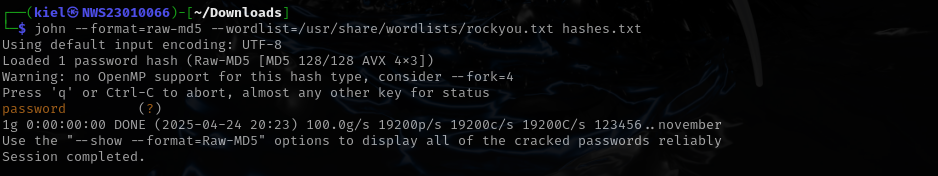
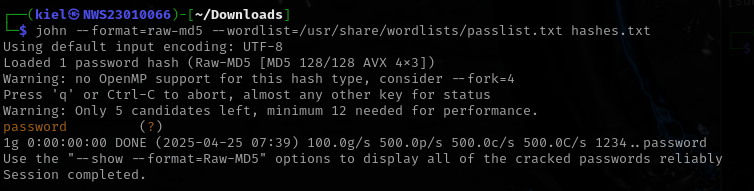
go

Changed region(s): [[0.0, 0.0284, 0.9761, 0.9375]]

diff --git a/Cryptography-Class/Assessments/2-Lab-Works-20%/Lab-Work-2/Walktrough.md b/Cryptography-Class/Assessments/2-Lab-Works-20%/Lab-Work-2/Walktrough.md
@@ -137,12 +137,6 @@ hashid hashes.txt
 ```
 ![alt text](Screenshots/hashes5.png)
 
-or  
-```bash
-hash-identifier
-```
-![alt text](Screenshots/hashes6.png)
-
 - Key Findings:
     - 32-character hexadecimal string (digits 0-9 and lowercase letters a-f).
     - No special characters (no *, $, colons, etc.)—just the raw hash value.
@@ -165,18 +159,25 @@ Crack the extracted hashes using offline tools like John or Hashcat.
 
 ---
 
-## 🛠 Tools & Commands  
+## 🛠 Tools & Commands 
+- For this hash cracking, you can use the possible password list in directory `/usr/share/wordlists/`. 
 
 ### 🔹 Using `john`:  
 ```bash
-john --wordlist=/usr/share/wordlists/rockyou.txt hashes.txt
+john --wordlist=/usr/share/wordlists/passlist.txt hashes.txt
 ```
 
 ![alt text](Screenshots/john1.png)
 
 ---
 
-### ⚠ Problem Encountered ⚠
+### ⚠ Problem Identified ⚠
+
+| Problem                     | Cause                                                                 | Solution                                                                 |
+|-----------------------------|-----------------------------------------------------------------------|--------------------------------------------------------------------------|
+| **Incorrect Hash Detection** | John defaults to LM hashing despite MD5 hints (`dynamic=md5($p)`).    | Force MD5 format: `john --format=raw-md5 --wordlist=rockyou.txt hashes.txt` |
+| **Failed Cracking Attempt**  | Wordlist (`rockyou.txt`) may not contain the password.                | Use larger wordlists (e.g., `SecLists`) or brute-force: `john --incremental --format=raw-md5 hashes.txt` |
+| **Inefficient Cracking**     | LM hashing is slow/irrelevant for MD5.                               | Switch to `hashcat` for speed: `hashcat -m 0 hashes.txt rockyou.txt`     |
 
 - When running the code above, you will encounter the error
     - `Warning: detected hash type "LM", but the string is also recognized as "dynamic=md5($p)"`
@@ -187,15 +188,21 @@ This is caused by the hash being **MD5**, and we didn't specify the format we wa
 
 ### ✅ Solution ✅ 🛠
 
-This can be solved/fixed by adding the correct/wanted format to the command
+This can be fixed by adding the correct format to the command.
 
 - For MD5:
-
-```sh
-john --format=raw-md5 --wordlist=<wordlist> hash.txt
+```bash
+john --format=raw-md5 --wordlist=/usr/share/wordlists/passlist.txt hashes.txt
 ```
 
-![alt text](Screenshots/john2.png)
+![alt text](Screenshots/john2.png)  
+
+- Command view cracked password:
+```bash
+john --show --format=raw-md5 hashes.txt 
+```
+
+![alt text](Screenshots/john3.png) 
 
 By using this command, we can see that the cracking was successful, thus showing us the treasure behind the hash
 
@@ -203,20 +210,11 @@ By using this command, we can see that the cracking was successful, thus showing
 
 ---
 
-### 🔹 Using `hashcat`:  
-```bash
-hashcat -m 0 -a 0 hashes.txt /usr/share/wordlists/rockyou.txt
-```
-
-![image](https://github.com/user-attachments/assets/example-crack.png)
-
----
-
 ## 📊 Cracking Results  
 
 | Username | Hash                         | Plaintext | Strength (Weak/Strong) |
 |----------|------------------------------|-----------|-------------------------|
-| alice    | 5f4dcc3b5aa765d61d8327deb882cf99 | password  | Weak                    |
+| admin    | 5f4dcc3b5aa765d61d8327deb882cf99 | password  | Weak                    |
 
 ---
 
@@ -246,17 +244,17 @@ hashcat -m 0 -a 0 hashes.txt /usr/share/wordlists/rockyou.txt
 ## 📷 Optional Wireshark Check  
 - Captured DB login traffic to confirm encryption.  
 - If using MySQL without SSL, credentials appear in plaintext.  
+![alt text](Screenshots/wireshark.png) 
+---
+
+## 📦 Tools Used  
+
+- `nmap`, `mysql`, `john`, `hashid`, `Wireshark`  
+- Wordlists: custom lists `/usr/share/wordlists/passlist.txt` 
 
 ---
 
-# 📦 Tools Used  
-
-- `nmap`, `mysql`, `sqlite3`, `john`, `hashcat`, `hashid`, `hash-identifier`, `Wireshark`  
-- Wordlists: `rockyou.txt`, custom lists  
-
----
-
-# 📝 Conclusion  
+## 📝 Conclusion  
 
 - Discovered and connected to insecure database services.  
 - Identified users with missing/weak passwords.  
